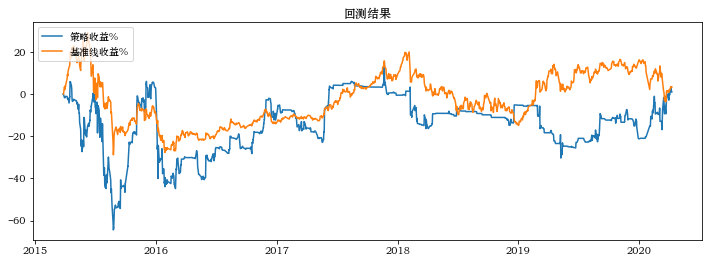
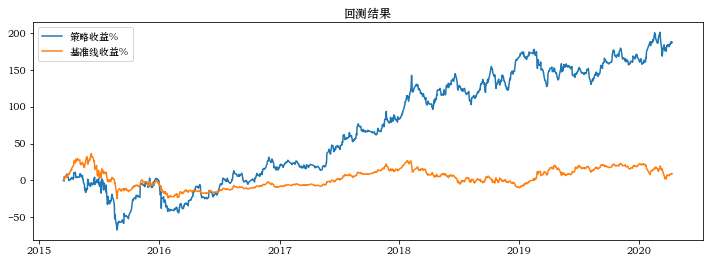
20200415第三次上传

diff --git a/SABR_Strategy.py b/SABR_Strategy.py
@@ -153,46 +153,25 @@ df['code'] = df.apply(lambda x: getTdOp(x['pre_close'],x['sigma'],OpDB,x['trade_
 #%% 设置买入卖出阈值
 
 df[['sell','buy','delta','dis']] = df['code'].apply(pd.Series)
-signal,n,flag = [],len(df),True
-for i in range(n):
-    if flag:
-        if df['dis'].iloc[i]>0.05:
-            signal.append(1)
-            flag = False
-            dis = df['dis'].iloc[i]
-            dis_cp = df['dis'].iloc[i]
-            sell = df['sell'].iloc[i]
-            buy = df['buy'].iloc[i]
-        else:
-            signal.append(0)
+signal,dis,sell,buy,n = [1],df['dis'].iloc[0],df['sell'].iloc[0],df['buy'].iloc[0],len(df)
+for i in range(1,n,1):
+    if (df['sell'].iloc[i]!=sell)and(df['buy'].iloc[i]!=buy):
+        signal.append(2)
+        dis = df['dis'].iloc[i]
+        sell = df['sell'].iloc[i]
+        buy = df['buy'].iloc[i]
+    elif df['dis'].iloc[i]>dis:
+        signal.append(3) # 加仓
+        dis = df['dis'].iloc[i]
     else:
-        if (df['sell'].iloc[i]!=sell)or(df['buy'].iloc[i]!=buy):
-            signal.append(-1)
-            flag = True
-            if df['dis'].iloc[i]>0.05:
-                signal[-1] = 2
-                flag = False
-        elif df['dis'].iloc[i]<dis:
-            if df['dis'].iloc[i]<0.03:
-                signal.append(-1)
-                flag = True
-            elif (dis_cp-df['dis'].iloc[i])/dis_cp>=0.5:
-                signal.append(4) # 减仓
-                dis_cp = df['dis'].iloc[i]
-            else:
-                signal.append(0)
-        elif df['dis'].iloc[i]>dis:
-                signal.append(3) # 加仓
-                dis = df['dis'].iloc[i]
-        else:
-            signal.append(0)
+        signal.append(0)
 df['signal'] = signal
 df.iloc[-1,-1] = -1
 
 #%% 按回测函数的要求生成信号表
 
 trade_date,signal,code,direction,volume,position,pct = [df['trade_date'].iloc[0]],[df['signal'].iloc[0]],[],[],[],[[0,0]],[[0,0]]
-if signal[-1]==1:
+if signal[0]==1:
     code.append([df['sell'].iloc[0],df['buy'].iloc[0]])
     direction.append([-1,1])
     volume.append([int(100*df['delta'].iloc[0]),100])
@@ -266,14 +245,9 @@ signalDf['trade_date'] = signalDf['trade_date'].apply(lambda x: datetime.datetim
 
 #%% 回测
 
-signalDf = signalDf.iloc[9:,:]
-signalDf.reset_index(drop=True,inplace=True)
 recordDf = BT.OptionBT(signalDf)
-
-#%% 可视化
-
 benchmarkDf = c.deepcopy(df[['trade_date','close']])
 benchmarkDf['trade_date'] = benchmarkDf['trade_date'].apply(lambda x: datetime.datetime.strptime(x,'%Y%m%d'))
 benchmarkDf = benchmarkDf[(benchmarkDf['trade_date']>recordDf['trade_date'].iloc[0])&(benchmarkDf['trade_date']<=recordDf['trade_date'].iloc[-1])]
 benchmarkDf.reset_index(drop=True,inplace=True)
-Stat = BT.Visualize(recordDf,benchmarkDf)
+stat = BT.Visualize(recordDf,benchmarkDf)
